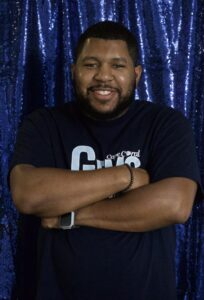
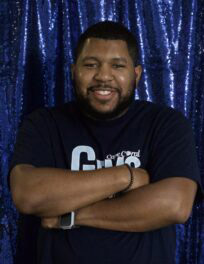
about page updates

diff --git a/src/pages/About.tsx b/src/pages/About.tsx
@@ -1,27 +1,63 @@
+import { useState } from 'react'
 import PageHeader from '../components/PageHeader'
 import GetInTouch from '../components/GetInTouch'
-import coachFaith from '../assets/coach_faith.jpeg'
-import coachAmy from '../assets/coach_amy.jpeg'
-import coachD from '../assets/coach_d.jpeg'
-import coachSarah from '../assets/coach_sarah.jpg'
+import coachFaith from '../assets/coach-faith.jpg'
+import coachAmy from '../assets/coach-amy.jpg'
+import coachD from '../assets/coach-d.jpg'
 
 const staff = [
-  { name: 'Coach Faith', role: 'Head Coach', img: coachFaith },
-  { name: 'Coach Amy', role: 'All Star Coach', img: coachAmy },
-  { name: 'Coach D', role: 'Tumbling Coach', img: coachD },
-  { name: 'Coach Sarah', role: 'Assistant Coach', img: coachSarah },
+  {
+    name: 'Coach Amy',
+    img: coachAmy,
+    bio: [
+      `For as long as I can remember, owning a cheerleading gym has been my ultimate dream. Today, as the proud 25-year-old owner of Coral Gem Athletics, I am living that dream alongside an incredible business partner—my mom, who brings over 3 decades of invaluable experience running a highly successful veterinary practice. Together, we combine a deep love for the sport with proven business expertise to serve our CGA families.`,
+      `My journey began right here in Southwest Florida back in 2005 on the North Fort Myers Pop Warner field. My passion reached new heights when I transitioned into the All-Star world and absolutely fell in love with flying. I found my true home at Midwest Cheer Elite Florida, training there until 2020. Interestingly enough, I look back and appreciate our losses even more than our wins; those challenges, along with the lifelong friendships, family dynamic, and unforgettable memories, are exactly what shaped me into the athlete and coach I am today.`,
+      `When an ACL injury sidelined me during my senior year, it felt like a setback—but it actually pushed me headfirst into my true calling: coaching. That very same year, I helped lead our Junior Level 1 team to their very first Summit competition at ESPN Wide World of Sports, cementing my absolute passion for guiding athletes.`,
+      `After a brief intermission working in customer service—where I honed invaluable skills in communication and client care—the stars aligned. I returned to the floor as cheer director for the second season of Cape Coral Gems Cheerleading. By the end of that season, the ultimate opportunity arose: taking over as owners.`,
+      `After a highly successful Season 3, we are jumping straight into Season 4 (2026-2027)! My mission for Coral Gems Athletics is simple: to take every lesson, memory, and bit of professional experience I've ever gained and use it to build a positive, elite environment where Southwest Florida families can watch their children foster a lifelong love for the sport of cheerleading.`,
+    ],
+  },
+  {
+    name: 'Coach Faith',
+    img: coachFaith,
+    bio: [
+      `Hi! I'm Faith, one of the coaches at Coral Gems Athletics. I started cheering in 2012 and began coaching in 2019. Since then, I've had the opportunity to work with athletes of all ages and skill levels, from beginner tumbling classes to competitive teams. I've been coaching at CGA since the gym opened and love being part of a positive environment where athletes can grow both on and off the mat. My favorite part of coaching is helping kids build confidence, teamwork, and a love for the sport while watching them achieve goals they never thought possible.`,
+      `Outside of the gym, I'm a licensed cosmetologist currently pursuing a degree in occupational therapy, with hopes of combining my passion for helping others with my love for working with children.`,
+    ],
+  },
+  {
+    name: 'Coach "D"',
+    img: coachD,
+    bio: [
+      `I began dancing and performing at the age of 6 playing drums and then moving on to middle school playing in the band and jazz band as a percussionist winning the Louis Armstrong awards in the jazz band 8th grade year, but meanwhile introduced to the drama department playing in musicals like the Nifty 50's dancing in the chorus.`,
+      `In 7th I was a part of the South Shore Drill Team in Chicago IL dancing in parades, shows, halftime shows, commercials, WGI competitions and the biggest one marching for President Obama inauguration Parade my Junior/Senior year while still playing in the band. As a senior I joined my HS dance team performing for basketball games.`,
+      `As years went on I continue to dance in college on a hip-hop team while getting an associate in fine art and a bachelors in music productions. Now moving from IL to Florida, I'm now enjoying coaching and choreographing for the Coral Gems Athletics All-star cheer and dance teams.`,
+    ],
+  },
+  {
+    name: 'Coach Remy',
+    img: 'https://picsum.photos/seed/coach-remy/400/400',
+    bio: [
+      `Hi! I'm Remy! I was born and raised here, Cape Coral, Florida. I grew up in the cheer world and have been involved in competitive cheerleading for most of my life. Over the years, I cheered at Storms Field, MACS (McGregor Baptist Church), Midwest Cheer Elite, and Cape Coral High School. After high school, I also spent time participating on a college step team.`,
+      `I have been coaching at Coral Gems Athletics since January 2025 and primarily work with our tumbling athletes and tumbling classes. I personally trained through Level 4 tumbling and can safely spot skills through that level. One of my favorite parts of coaching is helping athletes build confidence, improve their skills, and have fun while reaching their goals.`,
+      `Outside of the gym, I am also a hairstylist at Cre8 Salon and Spa, where I love helping people feel confident and beautiful. In my free time, I enjoy spending time with my boyfriend and my dog, relaxing by the pool, and creating fun social media content.`,
+    ],
+  },
 ]
 
 export default function About() {
+  const [expanded, setExpanded] = useState<string | null>(null)
+
+  function toggle(name: string) {
+    setExpanded(prev => (prev === name ? null : name))
+  }
+
   return (
     <div>
-      <PageHeader
-        title="About Us"
-
-      />
+      <PageHeader title="About Us" />
 
       {/* Intro */}
-      <section className="bg-white py-16 md:py-24 px-4">
+      <section className="bg-purple-50 py-16 md:py-24 px-4">
         <div className="max-w-4xl mx-auto text-center">
           <div className="w-16 h-1 bg-amber-400 mx-auto mb-8 rounded-full" />
           <p className="text-gray-600 text-lg md:text-xl leading-relaxed mb-6">
@@ -36,6 +72,49 @@ export default function About() {
         </div>
       </section>
 
+      {/* Staff */}
+      <section className="bg-white py-16 md:py-24 px-4">
+        <div className="max-w-4xl mx-auto">
+          <h2 className="text-3xl md:text-4xl font-bold text-center text-purple-900 mb-4">
+            Meet Our Coaches
+          </h2>
+          <p className="text-center text-gray-500 mb-12 text-lg">
+            Experienced, passionate, and dedicated to your athlete's growth.
+          </p>
+          <div className="flex flex-col gap-5">
+            {staff.map(member => {
+              const isOpen = expanded === member.name
+              return (
+                <div
+                  key={member.name}
+                  className="bg-white rounded-2xl border border-purple-100 shadow-sm p-6"
+                >
+                  <div className="flex items-center gap-5 mb-4">
+                    <img
+                      src={member.img}
+                      alt={member.name}
+                      className="w-32 h-32 rounded-xl object-cover flex-shrink-0"
+                    />
+                    <h3 className="text-2xl font-bold text-purple-900">{member.name}</h3>
+                  </div>
+                  <div className={`text-gray-600 leading-relaxed text-[0.95rem] ${isOpen ? '' : 'line-clamp-5'}`}>
+                    {member.bio.map((para, i) => (
+                      <p key={i} className={i > 0 ? 'mt-3' : ''}>{para}</p>
+                    ))}
+                  </div>
+                  <button
+                    onClick={() => toggle(member.name)}
+                    className="mt-3 text-amber-600 font-semibold text-sm hover:text-amber-700 transition-colors"
+                  >
+                    {isOpen ? 'Show less' : 'Read more'}
+                  </button>
+                </div>
+              )
+            })}
+          </div>
+        </div>
+      </section>
+
       {/* Values */}
       <section className="bg-purple-50 py-16 md:py-20 px-4">
         <div className="max-w-5xl mx-auto">
@@ -47,7 +126,7 @@ export default function About() {
               { title: 'Positive Environment', text: 'We build athletes up through positive reinforcement and encouragement at every step.', icon: '🌟' },
               { title: 'Character Building', text: 'Sports teach life lessons. We invest in our athletes as people first, athletes second.', icon: '💎' },
               { title: 'Community Trust', text: 'As a local organization, the trust our community places in us is our highest priority.', icon: '🤝' },
-              { title: 'Family Oriented', text: 'Every athlete who joins us becomes part of our family — that\'s not just a slogan, it\'s our promise.', icon: '❤' },
+              { title: 'Family Oriented', text: "Every athlete who joins us becomes part of our family — that's not just a slogan, it's our promise.", icon: '❤' },
             ].map(val => (
               <div key={val.title} className="bg-white rounded-2xl p-6 shadow-sm border border-purple-100 flex gap-4 items-start">
                 <span className="text-3xl flex-shrink-0">{val.icon}</span>
@@ -55,34 +134,6 @@ export default function About() {
                   <h3 className="font-bold text-purple-900 text-lg mb-1">{val.title}</h3>
                   <p className="text-gray-600 leading-relaxed">{val.text}</p>
                 </div>
-              </div>
-            ))}
-          </div>
-        </div>
-      </section>
-
-      {/* Staff */}
-      <section className="bg-white py-16 md:py-24 px-4">
-        <div className="max-w-5xl mx-auto">
-          <h2 className="text-3xl md:text-4xl font-bold text-center text-purple-900 mb-4">
-            Meet Our Coaches
-          </h2>
-          <p className="text-center text-gray-500 mb-12 text-lg">
-            Experienced, passionate, and dedicated to your athlete's growth.
-          </p>
-          <div className="grid grid-cols-1 sm:grid-cols-2 lg:grid-cols-4 gap-6 md:gap-8">
-            {staff.map(member => (
-              <div key={member.name} className="text-center group">
-                <div className="relative overflow-hidden rounded-2xl mb-4 aspect-square">
-                  <img
-                    src={member.img}
-                    alt={member.name}
-                    className="w-full h-full object-cover group-hover:scale-105 transition-transform duration-300"
-                  />
-                  <div className="absolute inset-0 bg-purple-900/0 group-hover:bg-purple-900/20 transition-colors duration-300 rounded-2xl" />
-                </div>
-                <h3 className="text-xl font-bold text-purple-900">{member.name}</h3>
-                <p className="text-amber-600 font-medium mt-1">{member.role}</p>
               </div>
             ))}
           </div>
